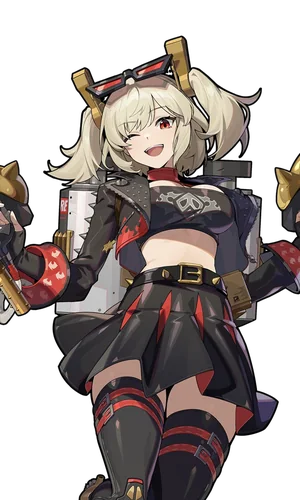
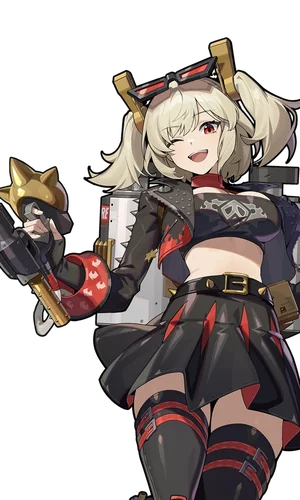
Re-vendor Random Play: jackets pin the face, spines on one eye-line
All 27 jackets re-cut with a measured (x, y) face centre pinned at
(0.50, 0.26) of the crop (random-play d42813d). Ju Fufu, Nangong Yu,
Miyabi and Zhao show their faces on the wall again and every spine
shares the eye-line. Verified on the export at 954 and 1440.

diff --git a/src/random-play/VENDORED.md b/src/random-play/VENDORED.md
@@ -1,6 +1,6 @@
 # Random Play, vendored
 
-Copied from `random-play` @ 44b31ee on 2026-09-28 by `scripts/rp-vendor.mjs`.
+Copied from `random-play` @ d42813d on 2026-09-28 by `scripts/rp-vendor.mjs`.
 Do not edit here while that repo is alive: change it there, re-run `npm run rp:vendor`.
 Assets live in `public/rp/` (served at `${basePath}/rp`). Tokens: `tokens/tokens.json` is the source; the generated
 `styles/tokens.css`, `styles/tailwind-theme.css` and `tokens.ts` ship pre-built.
